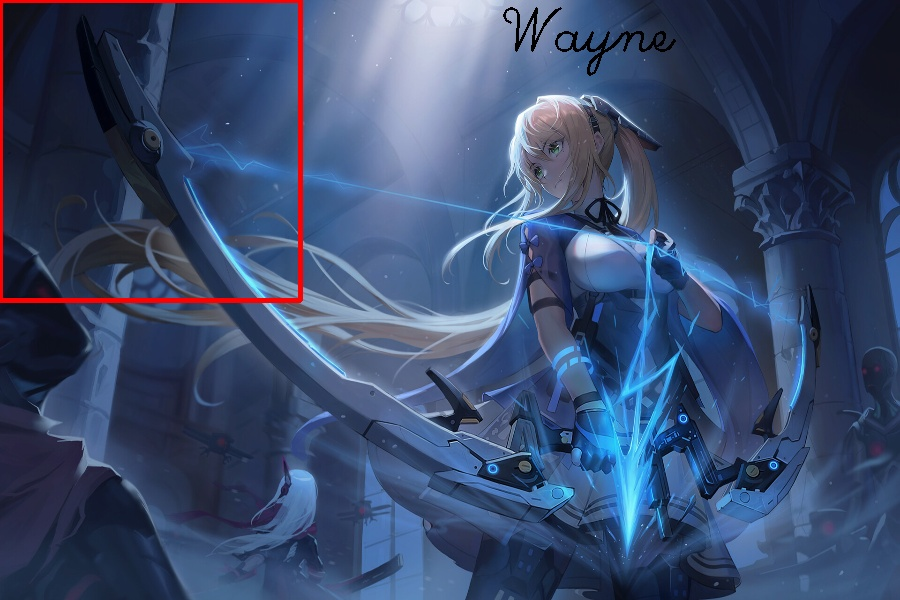
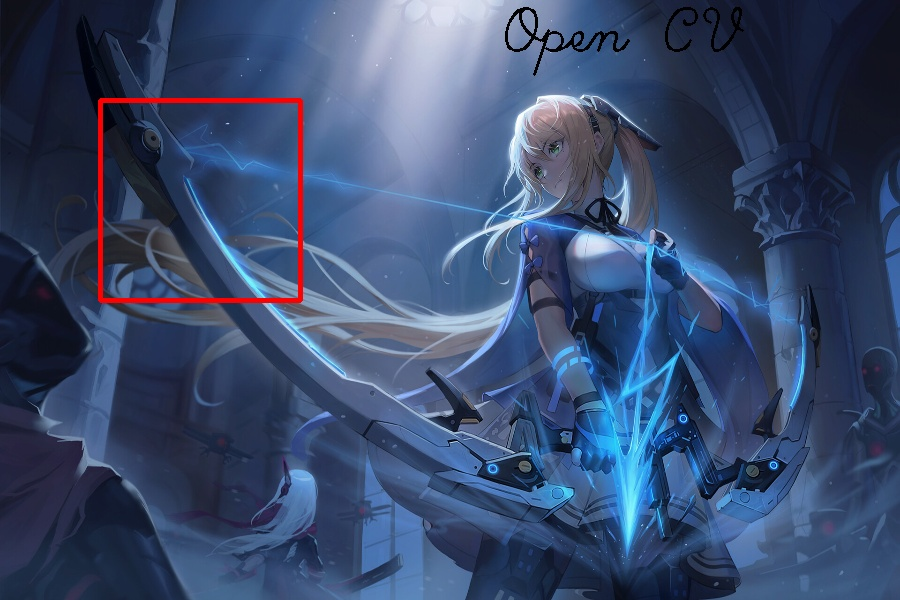
2022/12/05

Changed region(s): [[0.0, 0.0, 0.3422, 0.51], [0.56, 0.0, 0.84, 0.12]]

diff --git a/opencv.py b/opencv.py
@@ -4,8 +4,8 @@ import numpy
 """cv2.namedWindow("Image_1", flags=cv2.WINDOW_FREERATIO)"""
 img_1 = cv2.imread('pic\\pic1.jpg')
 img_1 = cv2.resize(img_1, (900, 600))
-cv2.rectangle(img_1, (0, 0), (300, 300), (0, 0, 255), 3)
-cv2.putText(img_1, "Wayne", (500, 50), cv2.FONT_HERSHEY_SCRIPT_SIMPLEX, 2, (0, 0 ,0), 2)
+cv2.rectangle(img_1, (100, 100), (300, 300), (0, 0, 255), 3)
+cv2.putText(img_1, "Open CV", (500, 50), cv2.FONT_HERSHEY_SCRIPT_SIMPLEX, 2, (0, 0 ,0), 2)
 cv2.imshow("Image_1", img_1)
 cv2.imwrite('pic_copy\\pic1_copy.jpg', img_1)
 cv2.waitKey(0)
